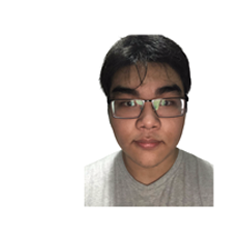
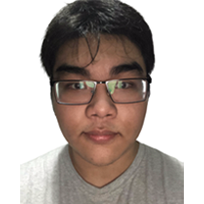
Final Prototype

diff --git a/team.html b/team.html
@@ -102,7 +102,7 @@
                         </div>
                         
                         <div class="col-md-5 col-sm-12">
-                            <img src="img/team/dazz logo.png" alt="" class="team-img">
+                            <img src="img/team/An_photo.png" alt="" class="team-img">
                         </div>
 
                     </div>
@@ -134,7 +134,7 @@
                         </div>
 
                         <div class="col-md-5 col-sm-12">
-                            <img src="img/team/Sinh_photo.jpg" alt="" class="team-img">
+                            <img src="img/team/Sinh_photo.png" alt="" class="team-img">
                         </div>
 
                     </div>
@@ -208,7 +208,7 @@ N/A
                         </div>
                         
                         <div class="col-md-5 col-sm-12">
-                            <img src="img/team/team.jpg" alt="" class="team-img">
+                            <img src="img/team/Danh_photo.jpg" alt="" class="team-img">
                         </div>
 
                     </div>
